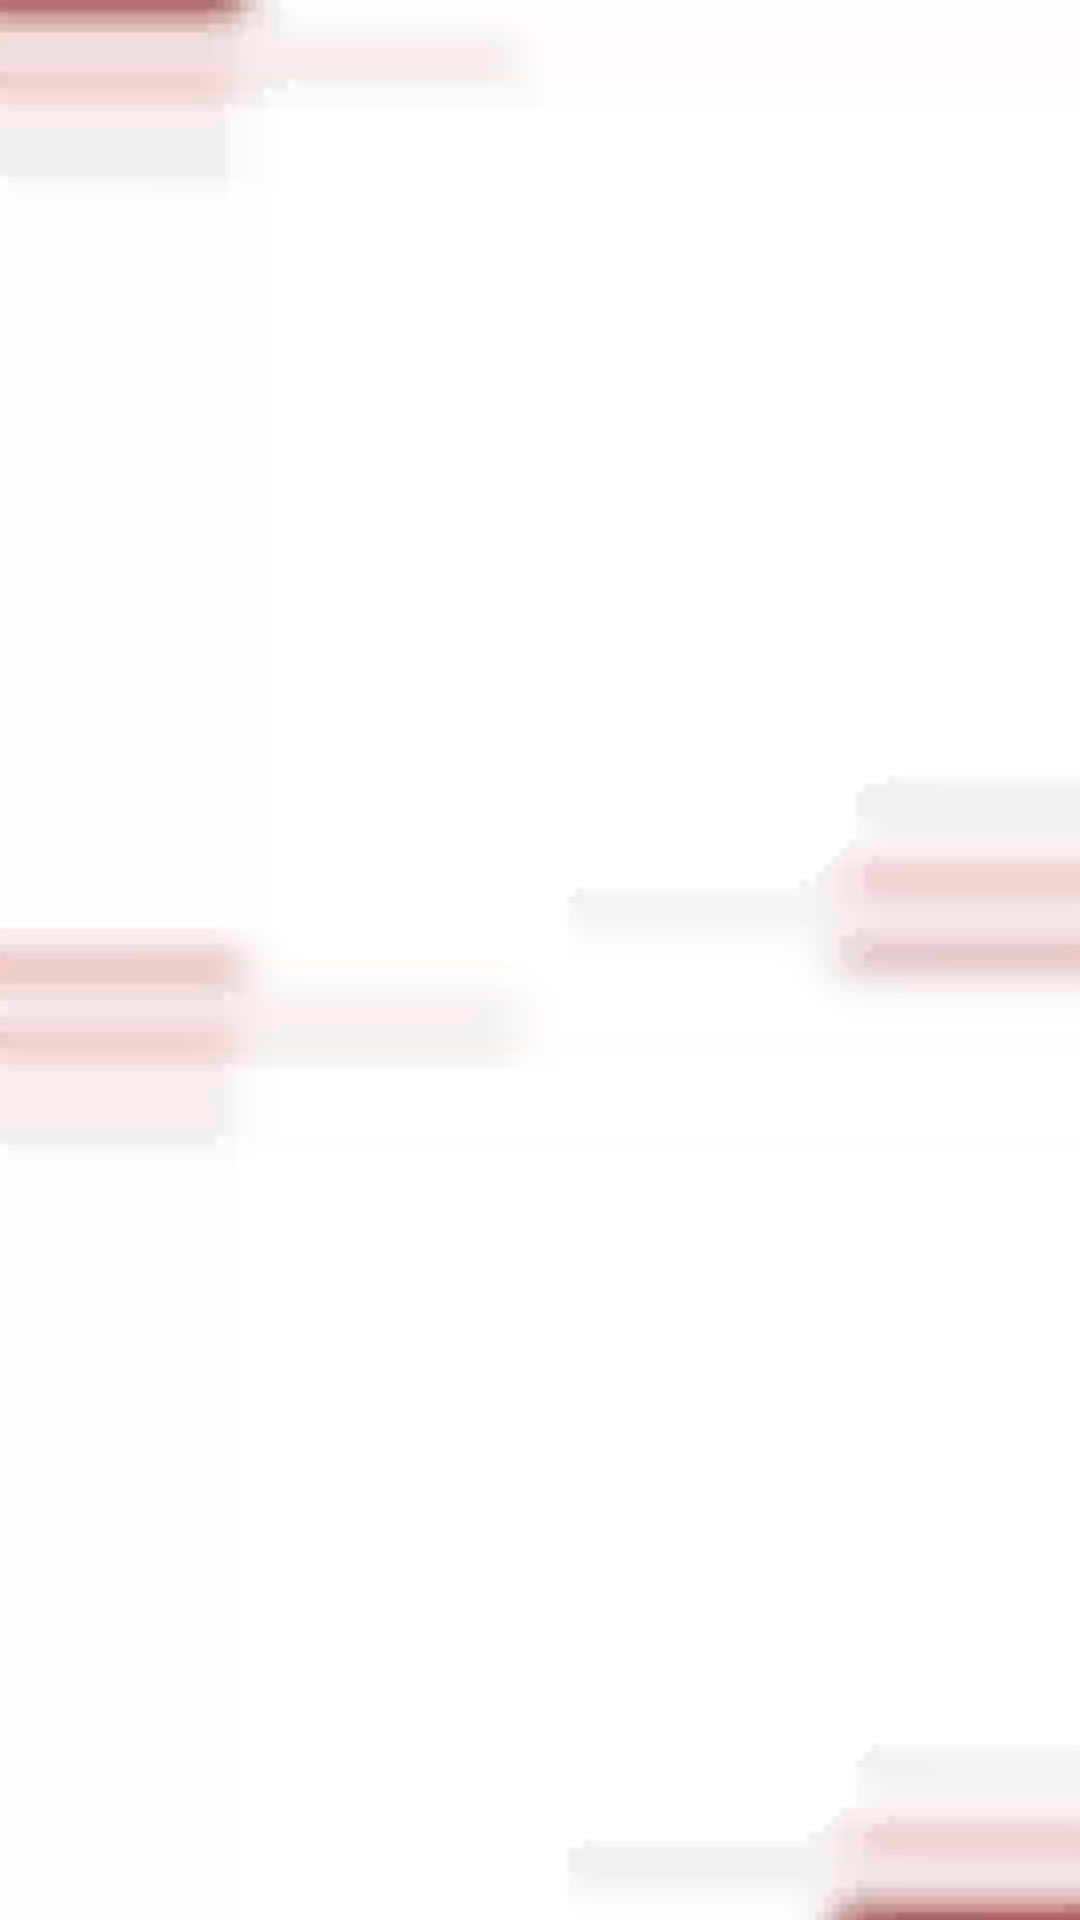
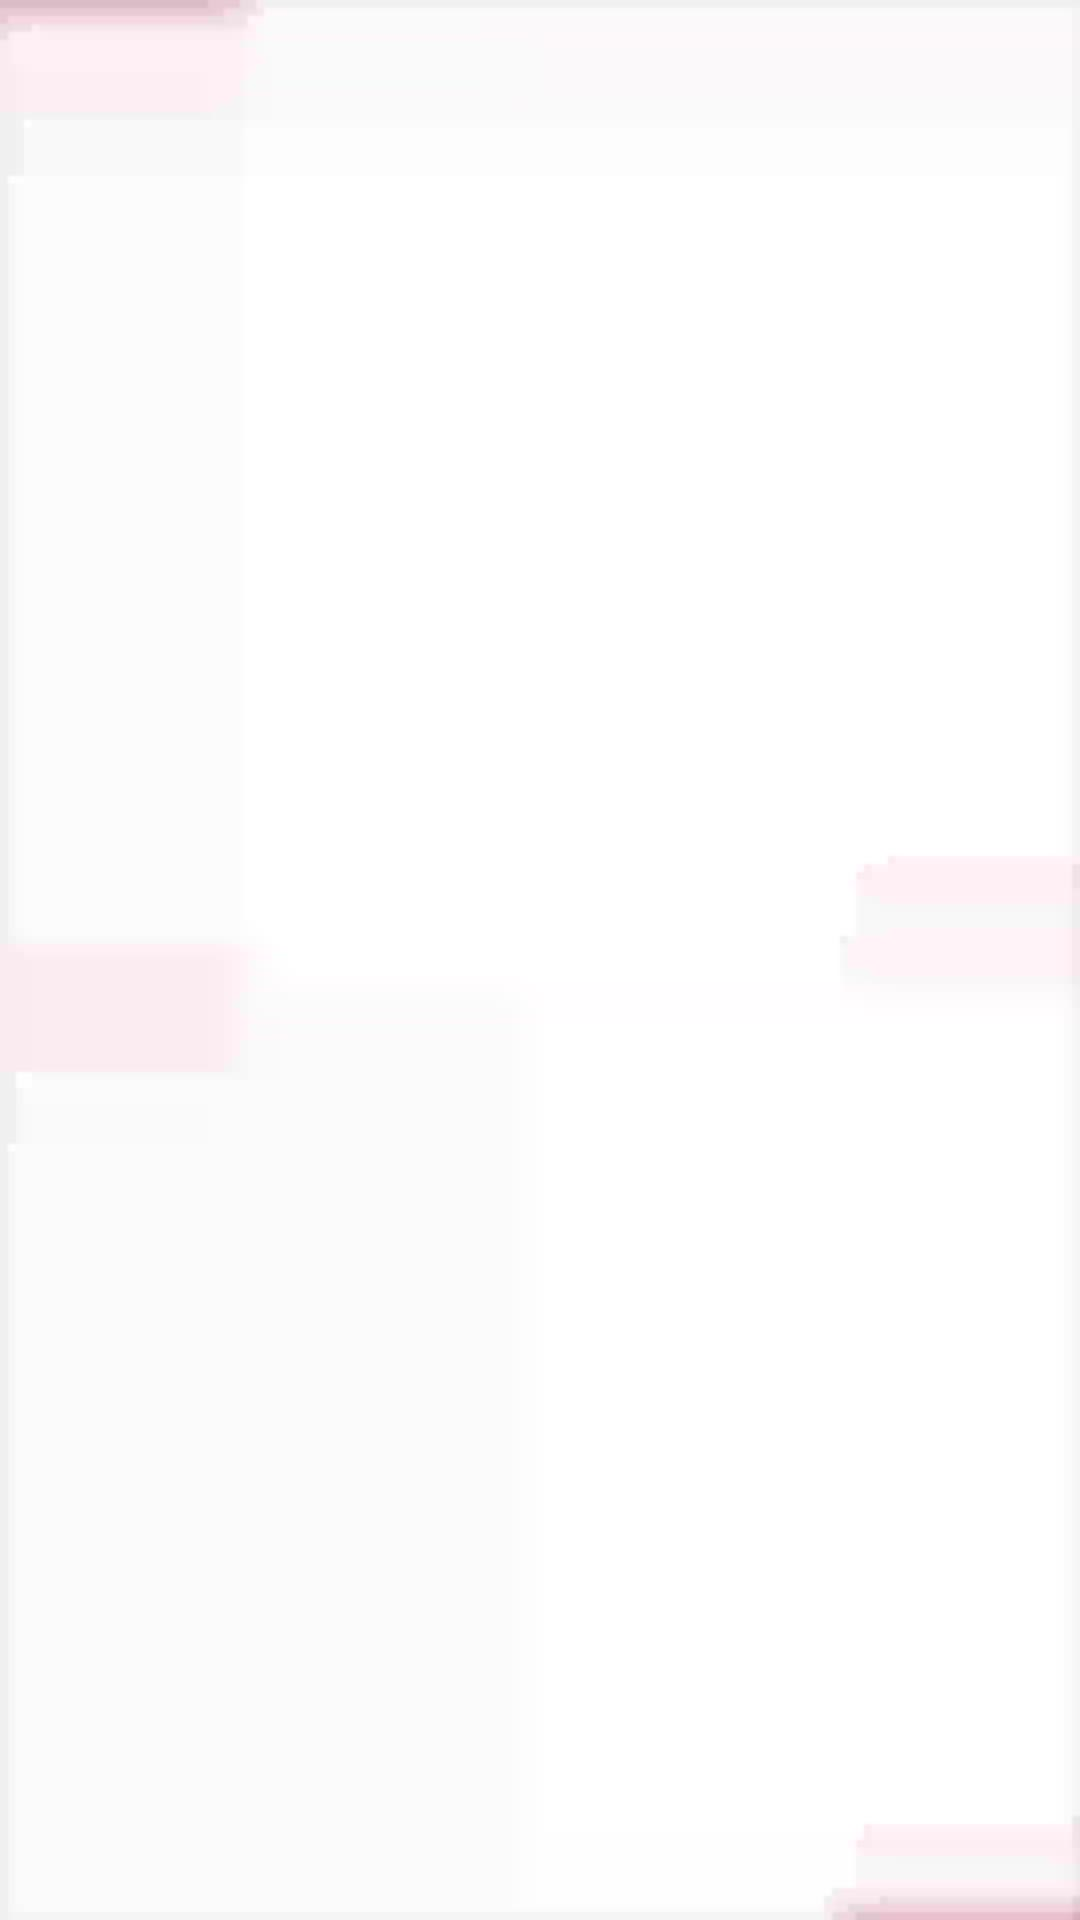
1.161: New light-mode background (out6 clip, 360x640 q85 WebP, 30 fps)
Claude-Session: https://claude.ai/code/session_01VMaw1RNinh1j9DMArVUfZ8

diff --git a/www/sw.js b/www/sw.js
@@ -1,7 +1,7 @@
 // Service worker: works offline after the first visit.
 // data.json is network-first (fresh results when online, last copy when offline);
 // everything else is cache-first with a background refresh.
-const CACHE = 'hpj-v1.160';
+const CACHE = 'hpj-v1.161';
 const CORE = [
   './', './index.html', './manifest.webmanifest', './data.json', './crests.json', './photos.json',
   './icons/icon-192.png', './icons/icon-512.png', './icons/notify-badge.png',

diff --git a/www/version.js b/www/version.js
@@ -1,1 +1,1 @@
-window.APP_VERSION='1.160';
+window.APP_VERSION='1.161';

diff --git a/CHANGELOG.md b/CHANGELOG.md
@@ -3,6 +3,10 @@
 כל גרסה של האפליקציה מקבלת כאן פסקה משלה, והפסקה הזו מופיעה גם בעמוד הגרסה ב-GitHub Releases.
 הגרסה החדשה ביותר למעלה.
 
+## 1.161
+גרסה ניסיונית (Pre-release). כוללת את מה שב-1.141–1.160.
+- רקע חדש למצב בהיר לפי הקובץ ששלחת (out6, מטושטש) – באפליקציה ובסטורי. 30 פריימים לשנייה, באותה שיטה הקלה (360×640 באיכות גבוהה, כ-550KB). הרקע הכהה לא השתנה.
+
 ## 1.160
 גרסה ניסיונית (Pre-release). כוללת את מה שב-1.141–1.159.
 - רקעים קלים וחלקים יותר: הרקעים מטושטשים, אז הם נשמרים עכשיו ב-360×640 באיכות גבוהה (במקום 1080×1920 באיכות בינונית) ומוגדלים למסך בלי הבדל נראה לעין. האיכות בפועל גבוהה יותר מקודם, הטלפון מפענח פי 9 פחות פיקסלים בכל פריים (אנימציה חלקה יותר וחיסכון בסוללה), וכל 30 הפריימים לשנייה נשמרים. גודל: כ-940KB בבהיר וכ-300KB בכהה (במקום כ-1.8 מגה וכ-160KB).
